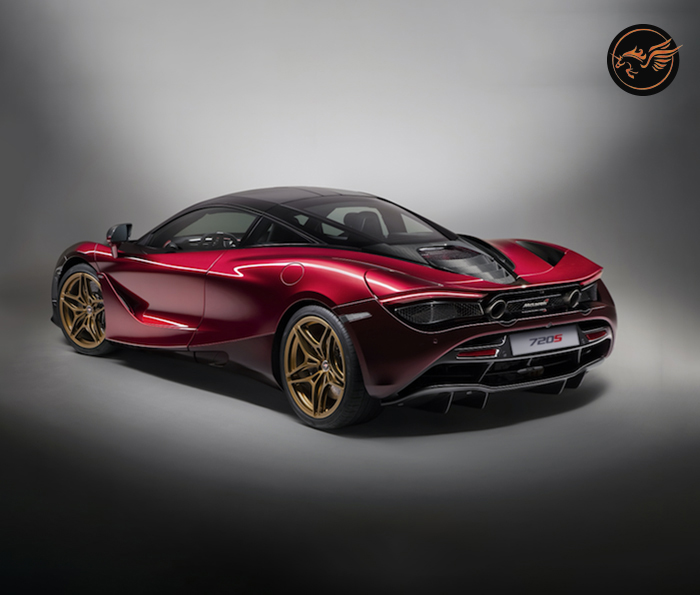
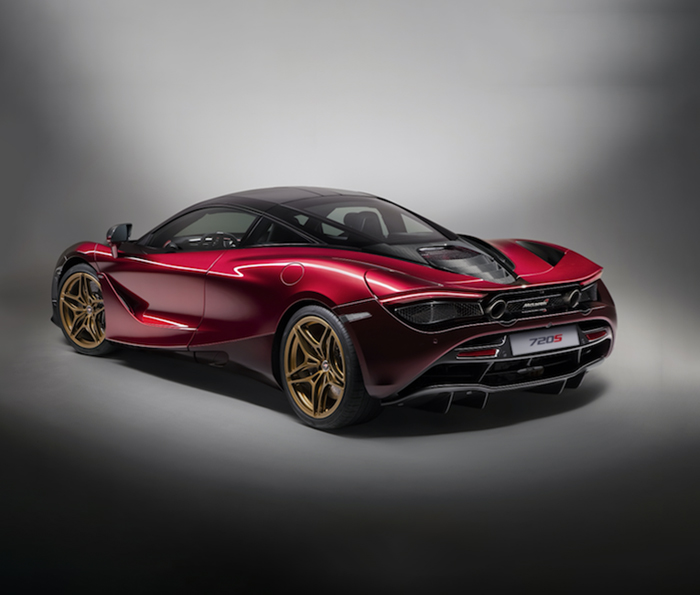
Divs para luego poner la v animada

Changed region(s): [[0.87, 0.0303, 0.99, 0.1815]]

diff --git a/transformative_economics.html b/transformative_economics.html
@@ -90,7 +90,8 @@
 
   <div id="earthdollar" class="col-xs-12 col-md-12 inside_project">
     <div class="col-md-6">
-      <img src="img/Inside/earth_dollar_main.jpg" class="insideimage" alt="Photo of Earth Dollar"> 
+      <img src="img/Inside/earth_dollar_main.jpg" class="insideimage" alt="Photo of Earth Dollar">
+      <img src="img/Inside/earth_dollar_logo.png" class="insidelogo_animated" alt="Logo of Earth Dollar"> 
     </div>
     <div class="col-xs-12 col-md-6 flex">
       <h2 class="project_title">Earth Dollar</h2> 
@@ -104,7 +105,8 @@
 
   <div id="motherearth" class="col-xs-12 col-md-12 inside_project">
     <div class="col-md-6">
-      <img src="img/Inside/mother_earth_main.jpg" class="insideimage" alt="Photo of Mother Earth"> 
+      <img src="img/Inside/mother_earth_main.jpg" class="insideimage" alt="Photo of Mother Earth">
+      <img src="img/Inside/mother_earth_logo.png" class="insidelogo_animated" alt="Logo of Mother Earth"> 
     </div>
     <div class="col-xs-12 col-md-6 flex">
       <h2 class="project_title">Mother Earth</h2> 
@@ -118,7 +120,8 @@
 
   <div id="earthdollarsovereign" class="col-xs-12 col-md-12 inside_project">
     <div class="col-md-6">
-      <img src="img/Inside/earth_dollar_sovereign_main.jpg" class="insideimage" alt="Photo of Earth Dollar Sovereign"> 
+      <img src="img/Inside/earth_dollar_sovereign_main.jpg" class="insideimage" alt="Photo of Earth Dollar Sovereign">
+      <img src="img/Inside/earth_dollar_sovereign_logo.png" class="insidelogo_animated" alt="Logo of Earth Dollar Sovereign"> 
     </div>
     <div class="col-xs-12 col-md-6 flex">
       <h2 class="project_title">Earth Dollar Sovereign</h2> 
@@ -131,7 +134,8 @@
 
   <div id="earthbank" class="col-xs-12 col-md-12 inside_project">
     <div class="col-md-6">
-      <img src="img/Inside/earth_bank_main.jpg" class="insideimage" alt="Photo of Earth Bank"> 
+      <img src="img/Inside/earth_bank_main.jpg" class="insideimage" alt="Photo of Earth Bank">
+      <img src="img/Inside/earth_bank_logo.png" class="insidelogo_animated" alt="Logo of Earth Bank"> 
     </div>
     <div class="col-xs-12 col-md-6 flex">
       <h2 class="project_title">Earth Bank</h2>
@@ -143,7 +147,8 @@
 
   <div id="coinearthdollar" class="col-xs-12 col-md-12 inside_project last">
     <div class="col-md-6">
-      <img src="img/Inside/coin_earth_dollar_main.jpg" class="insideimage" alt="Photo of Coin Earth Dollar"> 
+      <img src="img/Inside/coin_earth_dollar_main.jpg" class="insideimage" alt="Photo of Coin Earth Dollar">
+      <img src="img/Inside/earth_dollar_coin_logo.png" class="insidelogo_animated" alt="Logo of Earth Dollar Coin"> 
     </div>
     <div class="col-xs-12 col-md-6 flex">
       <h2 class="project_title">Earth Dollar Coin</h2> 

diff --git a/confidential_climate_action.html b/confidential_climate_action.html
@@ -89,7 +89,8 @@
 
   <div id="kingdomofhawaiian" class="col-xs-12 col-md-12 inside_project">
     <div class="col-md-6">
-      <img src="img/Inside/kingdom_of_hawaiian_islands_main.jpg" class="insideimage" alt="Photo of the Kingdom of Hawaiian Islands"> 
+      <img src="img/Inside/kingdom_of_hawaiian_islands_main.jpg" class="insideimage" alt="Photo of the Kingdom of Hawaiian Islands">
+      <img src="img/Inside/kingdom_logo.jpg" class="insidelogo_animated" alt="Logo of Kigndom of Hawaiian"> 
     </div>
     <div class="col-xs-12 col-md-6 flex">
       <h2 class="project_title">Kingdom of Hawaiian Islands</h2> 
@@ -120,7 +121,8 @@
 
   <div id="sultanateofsulu" class="col-xs-12 col-md-12 inside_project">
     <div class="col-md-6">
-      <img src="img/Inside/sultanate_of_sulu_main.jpg" class="insideimage" alt="Photo of sultanateof sulu"> 
+      <img src="img/Inside/sultanate_of_sulu_main.jpg" class="insideimage" alt="Photo of sultanateof sulu">
+      <img src="img/Inside/sulu_logo.jpg" class="insidelogo_animated" alt="Logo of Sultane of Sulu">  
     </div>
     <div class="col-xs-12 col-md-6 flex">
       <h2 class="project_title">Sultanate of Sulu</h2>
@@ -131,7 +133,8 @@
 
   <div id="wecare" class="col-xs-12 col-md-12 inside_project last">
     <div class="col-md-6">
-      <img src="img/Inside/we_care_main.jpg" class="insideimage" alt="Photo of We Care 2030"> 
+      <img src="img/Inside/we_care_main.jpg" class="insideimage" alt="Photo of We Care 2030">
+      <img src="img/Inside/we_care_logo.png" class="insidelogo_animated" alt="Logo of gridbid">
     </div>
     <div class="col-xs-12 col-md-6 flex">
       <h2 class="project_title">We Care 2030</h2> 

diff --git a/confidential_indigenous_people_rights.html b/confidential_indigenous_people_rights.html
@@ -89,6 +89,7 @@
   <div id="kingdomofhawaiian" class="col-xs-12 col-md-12 inside_project">
     <div class="col-md-6">
       <img src="img/Inside/kingdom_of_hawaiian_islands_main.jpg" class="insideimage" alt="Photo of the Kingdom of Hawaiian Islands"> 
+      <img src="img/Inside/kingdom_logo.jpg" class="insidelogo_animated" alt="Logo of Kigndom of Hawaiian">
     </div>
     <div class="col-xs-12 col-md-6 flex">
       <h2 class="project_title">Kingdom of Hawaiian Islands</h2> 
@@ -119,7 +120,8 @@
 
   <div id="sultanateofsulu" class="col-xs-12 col-md-12 inside_project">
     <div class="col-md-6">
-      <img src="img/Inside/sultanate_of_sulu_main.jpg" class="insideimage" alt="Photo of sultanateof sulu"> 
+      <img src="img/Inside/sultanate_of_sulu_main.jpg" class="insideimage" alt="Photo of sultanateof sulu">
+      <img src="img/Inside/sulu_logo.jpg" class="insidelogo_animated" alt="Logo of Sultane of Sulu">  
     </div>
     <div class="col-xs-12 col-md-6 flex">
       <h2 class="project_title">Sultanate of Sulu</h2>
@@ -130,7 +132,8 @@
 
   <div id="anishnabe" class="col-xs-12 col-md-12 inside_project">
     <div class="col-md-6">
-      <img src="img/Inside/anishnabe_main.jpg" class="insideimage" alt="Photo of Anishnabe"> 
+      <img src="img/Inside/anishnabe_main.jpg" class="insideimage" alt="Photo of Anishnabe">
+      <img src="img/Inside/anishnable_nation_logo.png" class="insidelogo_animated" alt="Logo of Sultane of Sulu">
     </div>
     <div class="col-xs-12 col-md-6 flex">
       <h2 class="project_title">Anishnabe Nation</h2> 

diff --git a/innovative_ecosystems.html b/innovative_ecosystems.html
@@ -90,7 +90,8 @@ The Unlimited Hemp Company is also supporting the Enhanced Secured SDG Bond Fram
 
   <div id="partnershipnxtp" class="col-xs-12 col-md-12 inside_project last">
     <div class="col-md-6">
-      <img src="img/Inside/partnership_with_nxtp_main.jpg" class="insideimage" alt="Photo of Partnership with NXTP"> 
+      <img src="img/Inside/partnership_with_nxtp_main.jpg" class="insideimage" alt="Photo of Partnership with NXTP">
+      <img src="img/Inside/nxtp_logo.png" class="insidelogo_animated" alt="Logo of NXTP">
     </div>
     <div class="col-xs-12 col-md-6 flex">
       <h2 class="project_title">Partnership with NXTP </h2> 

diff --git a/sustainable_projects.html b/sustainable_projects.html
@@ -89,7 +89,8 @@
 
   <div id="davincisupercar" class="col-xs-12 col-md-12 inside_project">
     <div class="col-md-6">
-      <img src="img/Inside/davinci_supercar_main.jpg" class="insideimage" alt="Photo of Da Vinci SuperCar"> 
+      <img src="img/Inside/davinci_supercar_main.jpg" class="insideimage" alt="Photo of Da Vinci SuperCar">
+      <img src="img/Inside/davinci_supercar_logo.png" class="insidelogo_animated" alt="Logo of davinci">
     </div>
     <div class="col-xs-12 col-md-6 flex">
       <h2 class="project_title">Da Vinci SuperCar</h2> 

diff --git a/asset_development.html b/asset_development.html
@@ -114,7 +114,8 @@
 
   <div id="gridbid" class="col-xs-12 col-md-12 inside_project last">
     <div class="col-md-6">
-      <img src="img/Inside/grid_bid_main.jpg" class="insideimage" alt="Photo of Grid Bid Technology"> 
+      <img src="img/Inside/grid_bid_main.jpg" class="insideimage" alt="Photo of Grid Bid Technology">
+      <img src="img/Inside/grid_bid_logo.png" class="insidelogo_animated" alt="Logo of gridbid"> 
     </div>
     <div class="col-xs-12 col-md-6 flex">
       <h2 class="project_title">Use of Grid.Bid Technology</h2> 

diff --git a/css/style.css b/css/style.css
@@ -686,6 +686,7 @@ color: var(--grey);
 	width: 100%;
 	margin-bottom: 0px;
 	opacity: 0.85;
+	position:relative;
 }
 
 .project_link{
@@ -718,6 +719,13 @@ color: var(--grey);
 	align-self: flex-end;
 	width: 70px;
 	margin-bottom: 15px;
+}
+
+.insidelogo_animated{
+    position: absolute;
+    top: 15px;
+    right: 25px;
+    width: 60px;
 }
 
 
